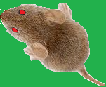
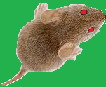
commit RatAplications

diff --git a/public/pageRatbook/salaBabys.html b/public/pageRatbook/salaBabys.html
@@ -20,7 +20,7 @@
   background-size: cover;
 }
 
-#imagem1, #imagem2 {
+#imagem1 {
   position: absolute;
   width: 50px;
   height: 50px;
@@ -28,15 +28,15 @@
   left: 0; /* Alinhando a imagem na esquerda */
 }
 
-/*
-#texto {
+#imagem2 {
   position: absolute;
-  top: 50px;
-  left: 50px;
-  color: white;
-  font-size: 24px;
-  text-shadow: 1px 1px black;
-}*/
+  width: 100px;
+  height: 100px;
+  top: 0; /* Alinhando a imagem no topo */
+  left: 0; /* Alinhando a imagem na esquerda */
+}
+
+
 
 
 #link {
@@ -54,16 +54,14 @@
 <body style="background-image: url('../imagens/imglabirinto.jpg'); background-size: cover; background-position: center; background-repeat: no-repeat;">
 
   <div id="container">
-    <img id="imagem1" src="../imagens/imgz3_9rat.PNG">
-    <img id="imagem2" src="../imagens/imgratzcatr.PNG">
+    <img id="imagem1" src="../imagens/imgz3_9rat2.PNG">
+    <img id="imagem2" src="../imagens/imgratzcatr2.PNG">
    <div><a id="link" href="z_The great game of the rat.html">_The great game of the rat...</a></div>
-   <!--<div id="texto">Texto sobre a imagem</div>-->
-   <!--<div id="link"><a id="link" href="https://www.google.com">The great game of the rat</a></div>-->
 </div>
 
 
   
-      <script>
+      <!--<script> original
 
 var container = document.getElementById("container");
 var imagem1 = document.getElementById("imagem1");
@@ -122,8 +120,180 @@ setTimeout(function() {
   });
 }, 2000);
 
+</script>-->
+
+<!--<script>Aprovado
+
+var container = document.getElementById("container");
+var imagem1 = document.getElementById("imagem1");
+var imagem2 = document.getElementById("imagem2");
+var body = document.querySelector("body");
+
+// Definir a posição inicial das imagens
+var startX1 = 1050;
+var startY1 = 400;
+var startX2 = 100;
+var startY2 = 100;
+imagem1.style.left = startX1 + "px";
+imagem1.style.top = startY1 + "px";
+imagem2.style.left = startX2 + "px";
+imagem2.style.top = startY2 + "px";
+
+// Definir a velocidade das imagens
+var speed1 = 10;
+var speed2 = 5;
+
+// Adicionar um atraso de 2 segundos antes de iniciar o movimento das imagens
+setTimeout(function() {
+  body.style.backgroundImage = "url('../imagens/imglabirinto.jpg')"; // Definindo a imagem de fundo
+  container.addEventListener("mousemove", function(event) {
+    var x = event.clientX - container.offsetLeft;
+    var y = event.clientY - container.offsetTop;
+
+    // Calcular o ângulo entre a posição atual da imagem1 e o cursor
+    var angle = Math.atan2(y - startY1, x - startX1);
+    
+    // Aplicar a rotação na imagem1
+    imagem1.style.transform = "rotate(" + angle + "rad)";
+
+    // Calcular a nova posição da imagem1
+    var newX1 = x - (imagem1.offsetWidth / 2);
+    var newY1 = y - (imagem1.offsetHeight / 2);
+
+    // Calcular a nova posição da imagem2
+    var newX2 = x - (imagem2.offsetWidth / 2);
+    var newY2 = y - (imagem2.offsetHeight / 2);
+
+    // Aplicar a nova posição das imagens com a velocidade definida
+    if (Math.abs(newX1 - startX1) > speed1 || Math.abs(newY1 - startY1) > speed1) {
+      if (newX1 > startX1) startX1 += speed1;
+      else startX1 -= speed1;
+      if (newY1 > startY1) startY1 += speed1;
+      else startY1 -= speed1;
+
+      imagem1.style.left = startX1 + "px";
+      imagem1.style.top = startY1 + "px";
+    }
+
+    if (Math.abs(newX2 - startX2) > speed2 || Math.abs(newY2 - startY2) > speed2) {
+      if (newX2 > startX2) startX2 += speed2;
+      else startX2 -= speed2;
+      if (newY2 > startY2) startY2 += speed2;
+      else startY2 -= speed2;
+
+      imagem2.style.left = startX2 + "px";
+      imagem2.style.top = startY2 + "px";
+    }
+  });
+}, 2000);
+
+</script>-->
+
+<script>
+var container = document.getElementById("container");
+var imagem1 = document.getElementById("imagem1");
+var imagem2 = document.getElementById("imagem2");
+var body = document.querySelector("body");
+
+// Definir a posição inicial das imagens
+var startX1 = 1050;
+var startY1 = 400;
+var startX2 = 100;
+var startY2 = 100;
+imagem1.style.left = startX1 + "px";
+imagem1.style.top = startY1 + "px";
+imagem2.style.left = startX2 + "px";
+imagem2.style.top = startY2 + "px";
+
+// Definir a velocidade das imagens
+var speed1 = 5;//10 verificar velocidade em rede..
+var speed2 = 2;//5 10 verificar velocidade em rede..
+
+// Adicionar um atraso de 2 segundos antes de iniciar o movimento das imagens
+setTimeout(function() {
+  body.style.backgroundImage = "url('../imagens/imglabirinto.jpg')"; // Definindo a imagem de fundo
+  container.addEventListener("mousemove", function(event) {
+    var x = event.clientX - container.offsetLeft;
+    var y = event.clientY - container.offsetTop;
+
+    // Calcular o ângulo entre a posição atual da imagem1 e o cursor
+    var angle = Math.atan2(y - startY1, x - startX1);
+    
+    // Aplicar a rotação na imagem1
+    imagem1.style.transform = "rotate(" + angle + "rad)";
+
+    // Calcular a distância entre as imagens
+    var distance = Math.sqrt(Math.pow(startX2 - startX1, 2) + Math.pow(startY2 - startY1, 2));
+
+    // Definir uma distância de referência para acionar a rotação da imagem2
+    var referenceDistance = 50;
+
+    // Determinar a direção da rotação com base na posição relativa das imagens
+    var rotationDirection = "";
+    if (startX2 > startX1 + referenceDistance) {
+      rotationDirection = "right";
+    } else if (startX2 < startX1 - referenceDistance) {
+      rotationDirection = "left";
+    } else if (startY2 > startY1 + referenceDistance) {
+      rotationDirection = "down";
+    } else if (startY2 < startY1 - referenceDistance) {
+      rotationDirection = "up";
+    }
+
+    // Aplicar a rotação na imagem2 com base na direção
+    switch (rotationDirection) {
+      case "right":
+        imagem2.style.transform = "rotate(0deg)";
+        break;
+      case "left":
+        imagem2.style.transform = "rotate(180deg)";
+        break;
+      case "down":
+        imagem2.style.transform = "rotate(90deg)";
+        break;
+      case "up":
+        imagem2.style.transform = "rotate(-90deg)";
+        break;
+      default:
+        imagem2.style.transform = "rotate(0deg)";
+    }
+
+    // Calcular a nova posição da imagem1
+    var newX1 = x - (imagem1.offsetWidth / 2);
+    var newY1 = y - (imagem1.offsetHeight / 2);
+
+    // Calcular a nova posição da imagem2
+    var newX2 = x - (imagem2.offsetWidth / 2);
+    var newY2 = y - (imagem2.offsetHeight / 2);
+
+    // Aplicar a nova posição das imagens com a velocidade definida
+    if (Math.abs(newX1 - startX1) > speed1 || Math.abs(newY1 - startY1) > speed1) {
+      if (newX1 > startX1) startX1 += speed1;
+      else startX1 -= speed1;
+      if (newY1 > startY1) startY1 += speed1;
+      else startY1 -= speed1;
+
+      imagem1.style.left = startX1 + "px";
+      imagem1.style.top = startY1 + "px";
+    }
+
+    if (Math.abs(newX2 - startX2) > speed2 || Math.abs(newY2 - startY2) > speed2) {
+      if (newX2 > startX2) startX2 += speed2;
+      else startX2 -= speed2;
+      if (newY2 > startY2) startY2 += speed2;
+      else startY2 -= speed2;
+
+      imagem2.style.left = startX2 + "px";
+      imagem2.style.top = startY2 + "px";
+    }
+  });
+}, 2000);
 
 
 </script>
+
+
+
+
 </body>
 </html>

diff --git a/public/pageRatbook/menuRat.html b/public/pageRatbook/menuRat.html
@@ -1,0 +1,124 @@
+<!DOCTYPE html>
+<html lang="en">
+<head>
+    <meta charset="UTF-8">
+    <meta http-equiv="X-UA-Compatible" content="IE=edge">
+    <meta name="viewport" content="width=device-width, initial-scale=1.0">
+    <title>Ferramentas Gratuitas</title>
+    <link rel="shortcut icon" href="../imagens/LogoRat.jpg"/>
+    <style>
+        body {
+            background-image: url('../imagens/ferramentasPage.PNG');
+            background-size: cover;
+            width: 100%;
+            height: auto;
+            margin: 0;
+        }
+
+        .principal {
+            text-align: center;
+        }
+
+        .conteudo {
+            display: flex;
+            margin-left: 50px;
+            align-items: flex-start; /* Alinha os itens com o topo */
+            margin-top: 20px; /* Espaçamento superior entre os grupos */
+        }
+
+        .imagem {
+            display: inline-block;
+        }
+
+        .dimensao {
+            width: 200px;
+            height: 100px;
+            border: 1px solid #8d04fd;
+            border-radius: 3%;
+        }
+
+        .link {
+            text-align: right;
+            font-size: 0.9em;
+            margin-left: 30px; /* Espaço entre a imagem e o link */
+            vertical-align: top; /* Alinha com o topo da imagem */
+        }
+
+        .link2 {
+            text-align: right;
+            font-size: 0.9em;
+            margin-left: 30px; /* Espaço entre a imagem e o link */
+            vertical-align: top; /* Alinha com o topo da imagem */
+        }
+
+
+
+
+
+        #estilizarLink {
+            color: #073ffa;
+            text-decoration: underline;
+            font-size: 16px;
+            text-shadow: 1px 1px rgb(10, 10, 10);
+            font-family:Verdana, Geneva, Tahoma, sans-serif;
+        }
+
+        
+    </style>
+</head>
+<body style="background-color: white" class="body">
+
+
+    <div>
+        <img src="../imagens/img0_1.PNG" width="100%">
+       </div>
+
+
+    <p class="estilizarTexto">Ferramentas gratuitas</p>
+
+    <!-- Grupo 1 -->
+    <div class="conteudo">
+        <div class="imagem">
+            <img src="../imagens/copyBlock.PNG" class="dimensao">
+        </div>
+        <div class="link">
+            <a href="../CopyBlocks/CopyBlock.html" id="estilizarLink">Acesse este link para uma experiência na página</a>
+        <br><br>
+            <div class="link2">
+                <a href="https://github.com/Rafael-Silva-Natal/CopyBlockJavascript" id="estilizarLink">Acesse este link para acessar o repositório do Copyblock</a>
+            </div>
+        
+        </div>
+
+        
+    </div>
+
+    <br><br>
+
+    <!-- Grupo 2 -->
+    <div class="conteudo">
+        <div class="imagem">
+            <img src="../imagens/matMemoryImage.PNG" class="dimensao">
+        </div>
+        <div class="link">
+            <a href="../MatMemoryGame/index2.html" id="estilizarLink">Acesse este link para uma experiência na página</a>
+        <br><br>
+            <div class="link2">
+                <a href="https://github.com/Rafael-Silva-Natal/Matematics_MemoryGame" id="estilizarLink">Acesse este link para acessar o repositório do MatMemoryGame </a>
+            </div>
+        
+        </div>
+        
+    </div>
+
+    <br><br>
+
+    <!-- Grupo 3 -->
+    <div class="conteudo">
+        <div class="imagem">
+            <img src="../imagens/jogoDoRatoIMG.jpg" class="dimensao">
+        </div>
+       
+    </div>
+</body>
+</html>
